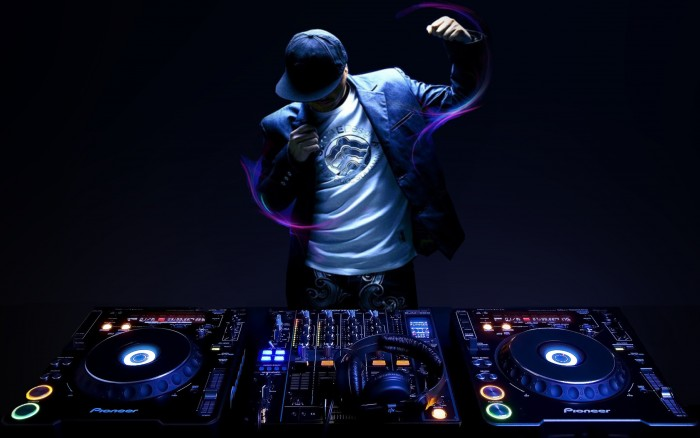
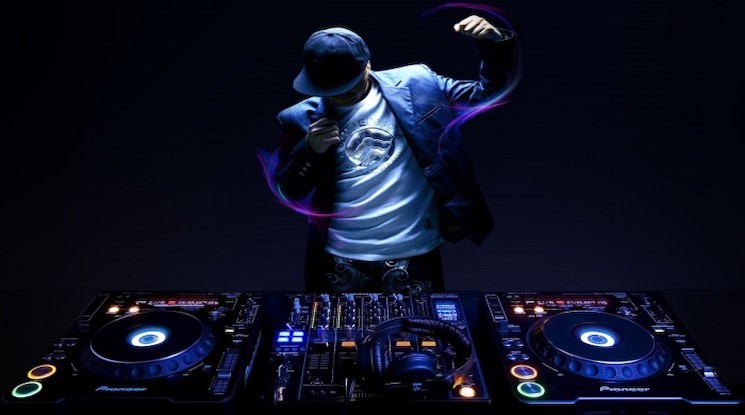
made pictures the same size on carousel

diff --git a/css/styles.css b/css/styles.css
@@ -29,7 +29,7 @@ header h2 {
 }
 
 footer {
-  background-color:  rgb(151, 0, 0);
+  background-color:  rgb(134, 0, 0);
   padding: 20px 0;
   text-emphasis-color: white;
 }
@@ -52,7 +52,7 @@ footer {
 }
 
 .carousel {
-  border: solid black;
+  width: 100%;
 }
 
 .card3 {

diff --git a/contact.html b/contact.html
@@ -66,7 +66,7 @@
 
   <div class="container contact-form">
     <form method="post">
-        <h3><br>Drop Us a Message</h3>
+        <h5><br>Drop Us a Message</h5>
        <div class="row">
             <div class="col-md-6">
                 <div class="form-group">
